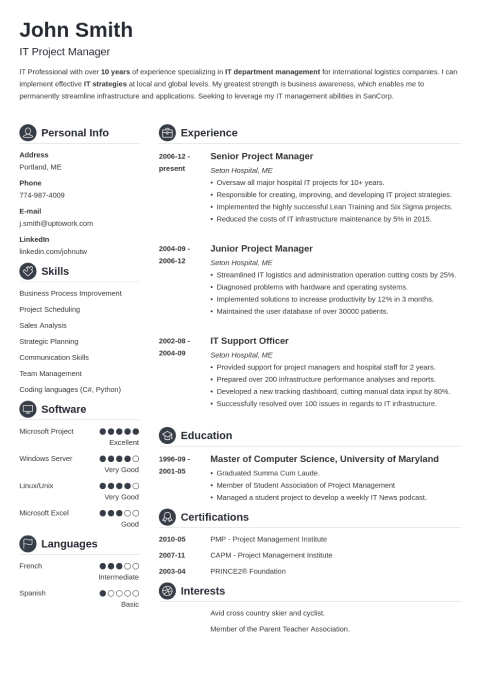
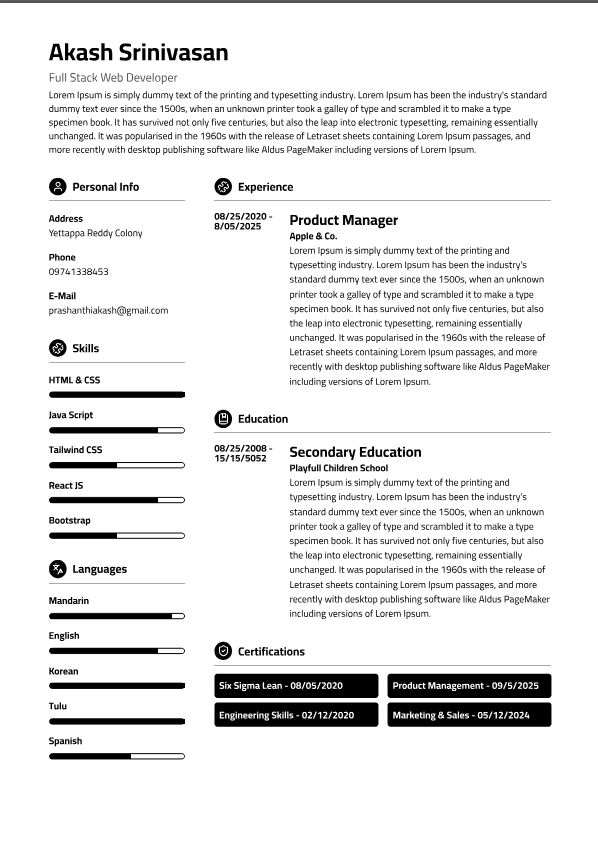
Added new sections to Crisp template & minor UI modifications

Changed region(s): [[0.0, 0.0, 1.0, 0.9265], [0.343, 0.3397, 0.3742, 0.4015]]

diff --git a/src/pages/dashboard/resume template/Resume.tsx b/src/pages/dashboard/resume template/Resume.tsx
@@ -605,19 +605,19 @@ onClick={(rating) => handleProficiencyChange(index, rating)}
         } else if (id === "berlin") {
           return <Berlin languages={languages} certificates={certificates}  image={image} personalInfo={personalInfo} education={education} skills={skills} experiences={experiences}></Berlin>
         } else if (id === "crisp") {
-          return <Crisp image={image} personalInfo={personalInfo} education={education} skills={skills} experiences={experiences}></Crisp>
+          return <Crisp languages={languages} certificates={certificates} image={image} personalInfo={personalInfo} education={education} skills={skills} experiences={experiences}></Crisp>
         } else if (id === "santiago") {
-          return <Santiago image={image} personalInfo={personalInfo} education={education} skills={skills} experiences={experiences} />
+          return <Santiago languages={languages} certificates={certificates}  image={image} personalInfo={personalInfo} education={education} skills={skills} experiences={experiences} />
         } else if (id === "london") {
-          return <London image={image} personalInfo={personalInfo} education={education} skills={skills} experiences={experiences} />
+          return <London languages={languages} certificates={certificates}  image={image} personalInfo={personalInfo} education={education} skills={skills} experiences={experiences} />
         } else if (id === "singapore") {
-          return <Singapore image={image} personalInfo={personalInfo} education={education} skills={skills} experiences={experiences} />
+          return <Singapore languages={languages} certificates={certificates}  image={image} personalInfo={personalInfo} education={education} skills={skills} experiences={experiences} />
         } else if (id === "rome") {
-          return <Rome languages={languages} certificates={certificates}  image={image} personalInfo={personalInfo} education={education} skills={skills} experiences={experiences} />
+          return <Rome languages={languages} certificates={certificates}  languages={languages} certificates={certificates}  image={image} personalInfo={personalInfo} education={education} skills={skills} experiences={experiences} />
         } else if (id === "diamond") {
-          return <Diamond image={image} personalInfo={personalInfo} education={education} skills={skills} experiences={experiences} />
+          return <Diamond languages={languages} certificates={certificates}  image={image} personalInfo={personalInfo} education={education} skills={skills} experiences={experiences} />
         } else if (id === "barcelona") {
-          return <Barcelona image={image} personalInfo={personalInfo} education={education} skills={skills} experiences={experiences} />
+          return <Barcelona languages={languages} certificates={certificates} image={image} personalInfo={personalInfo} education={education} skills={skills} experiences={experiences} />
         }
       }
       return (

diff --git a/src/pages/dashboard/resume template/templates/Crisp/Crisp.tsx b/src/pages/dashboard/resume template/templates/Crisp/Crisp.tsx
@@ -1,9 +1,9 @@
 // @ts-ignore
 import React, { forwardRef } from 'react';
 import "./Crisp.scss"
-import { BookMarked, Languages, Puzzle, User } from 'lucide-react';
+import { BookMarked, Languages, Puzzle, ShieldCheck, User } from 'lucide-react';
 
-const Crisp = forwardRef(({ personalInfo, education, image, skills, experiences }, ref) => {
+const Crisp = forwardRef(({ personalInfo, education, languages, certificates, image, skills, experiences }: any, ref: any) => {
     return (
         <div ref={ref} className='crisp-resume'>
             <h1>{personalInfo.firstName} {personalInfo.lastName}</h1>
@@ -14,7 +14,7 @@ const Crisp = forwardRef(({ personalInfo, education, image, skills, experiences 
                     <div className="personalInfo">
                         <h3><User size={20} /> Personal Info</h3>
                         <h4>Address</h4>
-                        <p>{personalInfo.city}, {personalInfo.country}</p>
+                        <p>{personalInfo.address}</p>
                         <h4>Phone</h4>
                         <p>{personalInfo.phone}</p>
                         <h4>E-Mail</h4>
@@ -37,14 +37,14 @@ const Crisp = forwardRef(({ personalInfo, education, image, skills, experiences 
                     {/* LANGUAGES */}
                     <div className="personalInfo">
                         <h3><Languages size={20} /> Languages</h3>
-                        {/* {personalInfo.languages.map((language, index) => (
+                        {languages.map((language, index) => (
                             <div className="skill" key={index}>
-                                <h4>{language}</h4>
+                                <h4>{language.name}</h4>
                                 <div className="bar-container">
-                                    <div className="bar"></div>
+                                <div className="bar" style={{ width: `${(language.proficiency / 5) * 100}%` }}></div>
                                 </div>
                             </div>
-                        ))} */}
+                        ))}
                     </div>
                 </div>
                 <div className="right left">
@@ -80,6 +80,18 @@ const Crisp = forwardRef(({ personalInfo, education, image, skills, experiences 
                                 </div>
                             </div>
                         ))}
+                    </div>
+
+
+                    <div className="personalInfo">
+                        <h3><ShieldCheck size={20} />Certifications</h3>
+                        <div className="grid">
+                        {certificates.map((edu, index) => (
+                            <div className="certificate" key={index}>
+                                <h4>{edu.name} - {edu.date}</h4>
+                            </div>
+                        ))}
+                        </div>
                     </div>
                 </div>
             </div>

diff --git a/src/pages/dashboard/resume template/templates/Crisp/Crisp.scss b/src/pages/dashboard/resume template/templates/Crisp/Crisp.scss
@@ -1,6 +1,25 @@
 .crisp-resume {
   padding: 2em;
+  zoom: 80%;
   font-family: "Cairo";
+  .grid {
+    display: grid;
+    grid-template-columns: 1fr 1fr;
+    gap: 0.5em 1em;
+    margin-top: 0.8em;
+  }
+  .certificate {
+    width: 100%;
+    padding: 0 !important;
+    h4 {
+      background: #000;
+      margin: 0 !important;
+      color: #fff;
+      padding: 0.5em;
+      border-radius: 5px;
+      width: 100%;
+    }
+  }
   > h1 {
     font-size: 2.5rem;
     line-height: 1.2;
@@ -94,15 +113,16 @@
         }
 
         .righty {
-            width: 80% !important;
-            h1, h4 {
-                line-height: 1.2;
-                margin: 0;
-            }
+          width: 80% !important;
+          h1,
+          h4 {
+            line-height: 1.2;
+            margin: 0;
+          }
 
-            h1 {
-                font-size: 1.5rem;
-            }
+          h1 {
+            font-size: 1.5rem;
+          }
         }
       }
     }

diff --git a/src/pages/dashboard/resume template/resume.scss b/src/pages/dashboard/resume template/resume.scss
@@ -271,6 +271,7 @@
       width: 30%;
       height: 100%;
       font-family: "Cairo";
+      overflow-y: auto;
       padding: 1.5em;
       border-right: 2px solid #000;
 
